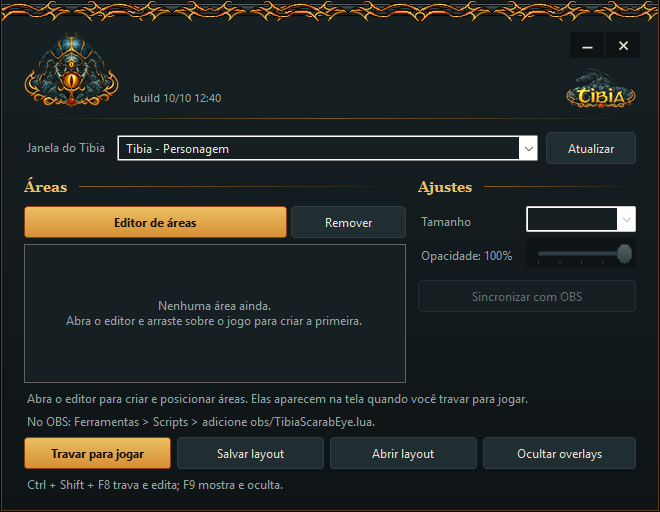
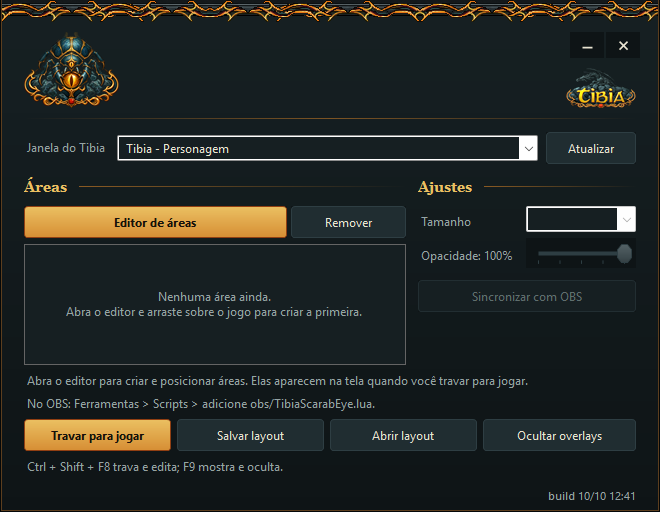
feat(ui): data do executavel no canto inferior direito
A faixa do pe (18 px) guarda o texto pequeno, alinhado a direita com a mesma
margem do cabecalho; sai do lado do emblema.

Changed region(s): [[0.0303, 0.7188, 0.9697, 1.0], [0.0909, 0.5625, 0.5455, 0.6562], [0.1818, 0.1875, 0.3333, 0.2188]]

diff --git a/src/TibiaScarabEye/UI/FramelessForm.cs b/src/TibiaScarabEye/UI/FramelessForm.cs
@@ -8,11 +8,11 @@ namespace TibiaScarabEye.UI;
 
 // Janela sem a moldura do Windows. A borda de cima é a faixa de espinhos do fan kit do Tibia. Abaixo dela, o cabeçalho tem o
 // emblema do escaravelho à esquerda e, à direita, os botões da janela com o logo do Tibia logo abaixo; um divisor separa o
-// cabeçalho dos controles do programa. Mover, redimensionar, minimizar e fechar são desenhados aqui, pois não há barra de
+// cabeçalho dos controles do programa, e uma faixa no pé guarda o texto pequeno do canto inferior direito. Mover, redimensionar, minimizar e fechar são desenhados aqui, pois não há barra de
 // título nativa.
 internal abstract class FramelessForm : Form {
     // Valores lógicos (96 dpi); a janela converte para pixels do dispositivo.
-    const int StripHeight=22, HeaderTop=StripHeight+10, EmblemHeight=76, ContentTop=HeaderTop+EmblemHeight+24, Edge=8;
+    const int StripHeight=22, HeaderTop=StripHeight+10, EmblemHeight=76, ContentTop=HeaderTop+EmblemHeight+24, Edge=8, FooterHeight=18;
     const int CaptionButtonWidth=34, CaptionButtonHeight=26, TibiaLogoHeight=40, SideMargin=16;
     const int HitClient=1, HitCaption=2, HitLeft=10, HitRight=11, HitBottom=15, HitBottomLeft=16, HitBottomRight=17;
     const int WmNcHitTest=0x84, WmNcLButtonDblClk=0xA3, WmSysCommand=0x112, ScMaximize=0xF030, WsMinimizeBox=0x20000;
@@ -20,7 +20,7 @@ internal abstract class FramelessForm : Form {
     static readonly Font SmallFont=new Font("Segoe UI",8.25f);
     readonly CaptionButton minimize=new CaptionButton(CaptionGlyph.Minimize), close=new CaptionButton(CaptionGlyph.Close);
 
-    // Texto pequeno ao lado do emblema; o Tibia Scarab Eye usa para a data do executável, que denuncia um executável velho.
+    // Texto pequeno no canto inferior direito; o Tibia Scarab Eye usa para a data do executável, que denuncia um executável velho.
     protected string BandCaption="";
 
     protected FramelessForm() {
@@ -53,7 +53,7 @@ internal abstract class FramelessForm : Form {
     }
 
     protected override void OnLayout(LayoutEventArgs e) {
-        var padding=new Padding(Px(Edge),Px(ContentTop),Px(Edge),Px(Edge));
+        var padding=new Padding(Px(Edge),Px(ContentTop),Px(Edge),Px(Edge)+Px(FooterHeight));
         if(Padding!=padding) Padding=padding;
         base.OnLayout(e);
     }
@@ -85,8 +85,8 @@ internal abstract class FramelessForm : Form {
         var emblem=EmblemBounds;
         g.DrawImage(Emblem,emblem);
         g.DrawImage(TibiaLogo,TibiaLogoBounds);
-        int left=emblem.Right+Px(14), width=TibiaLogoBounds.Left-left-Px(12);
-        if(width>0) TextRenderer.DrawText(g,BandCaption,SmallFont,new Rectangle(left,emblem.Bottom-SmallFont.Height-Px(2),width,SmallFont.Height+Px(2)),Theme.Muted,TextFormatFlags.Left|TextFormatFlags.EndEllipsis|TextFormatFlags.NoPadding);
+        int margin=Px(Edge)+Px(SideMargin);
+        TextRenderer.DrawText(g,BandCaption,SmallFont,new Rectangle(margin,ClientSize.Height-Px(Edge)-Px(FooterHeight)+Px(1),ClientSize.Width-2*margin,Px(FooterHeight)-Px(2)),Theme.Muted,TextFormatFlags.Right|TextFormatFlags.VerticalCenter|TextFormatFlags.EndEllipsis|TextFormatFlags.NoPadding);
     }
     // A faixa de espinhos do fan kit forma a borda de cima; cópias espelhadas lado a lado emendam sem costura.
     void DrawThorns(Graphics g,Rectangle panel) {
